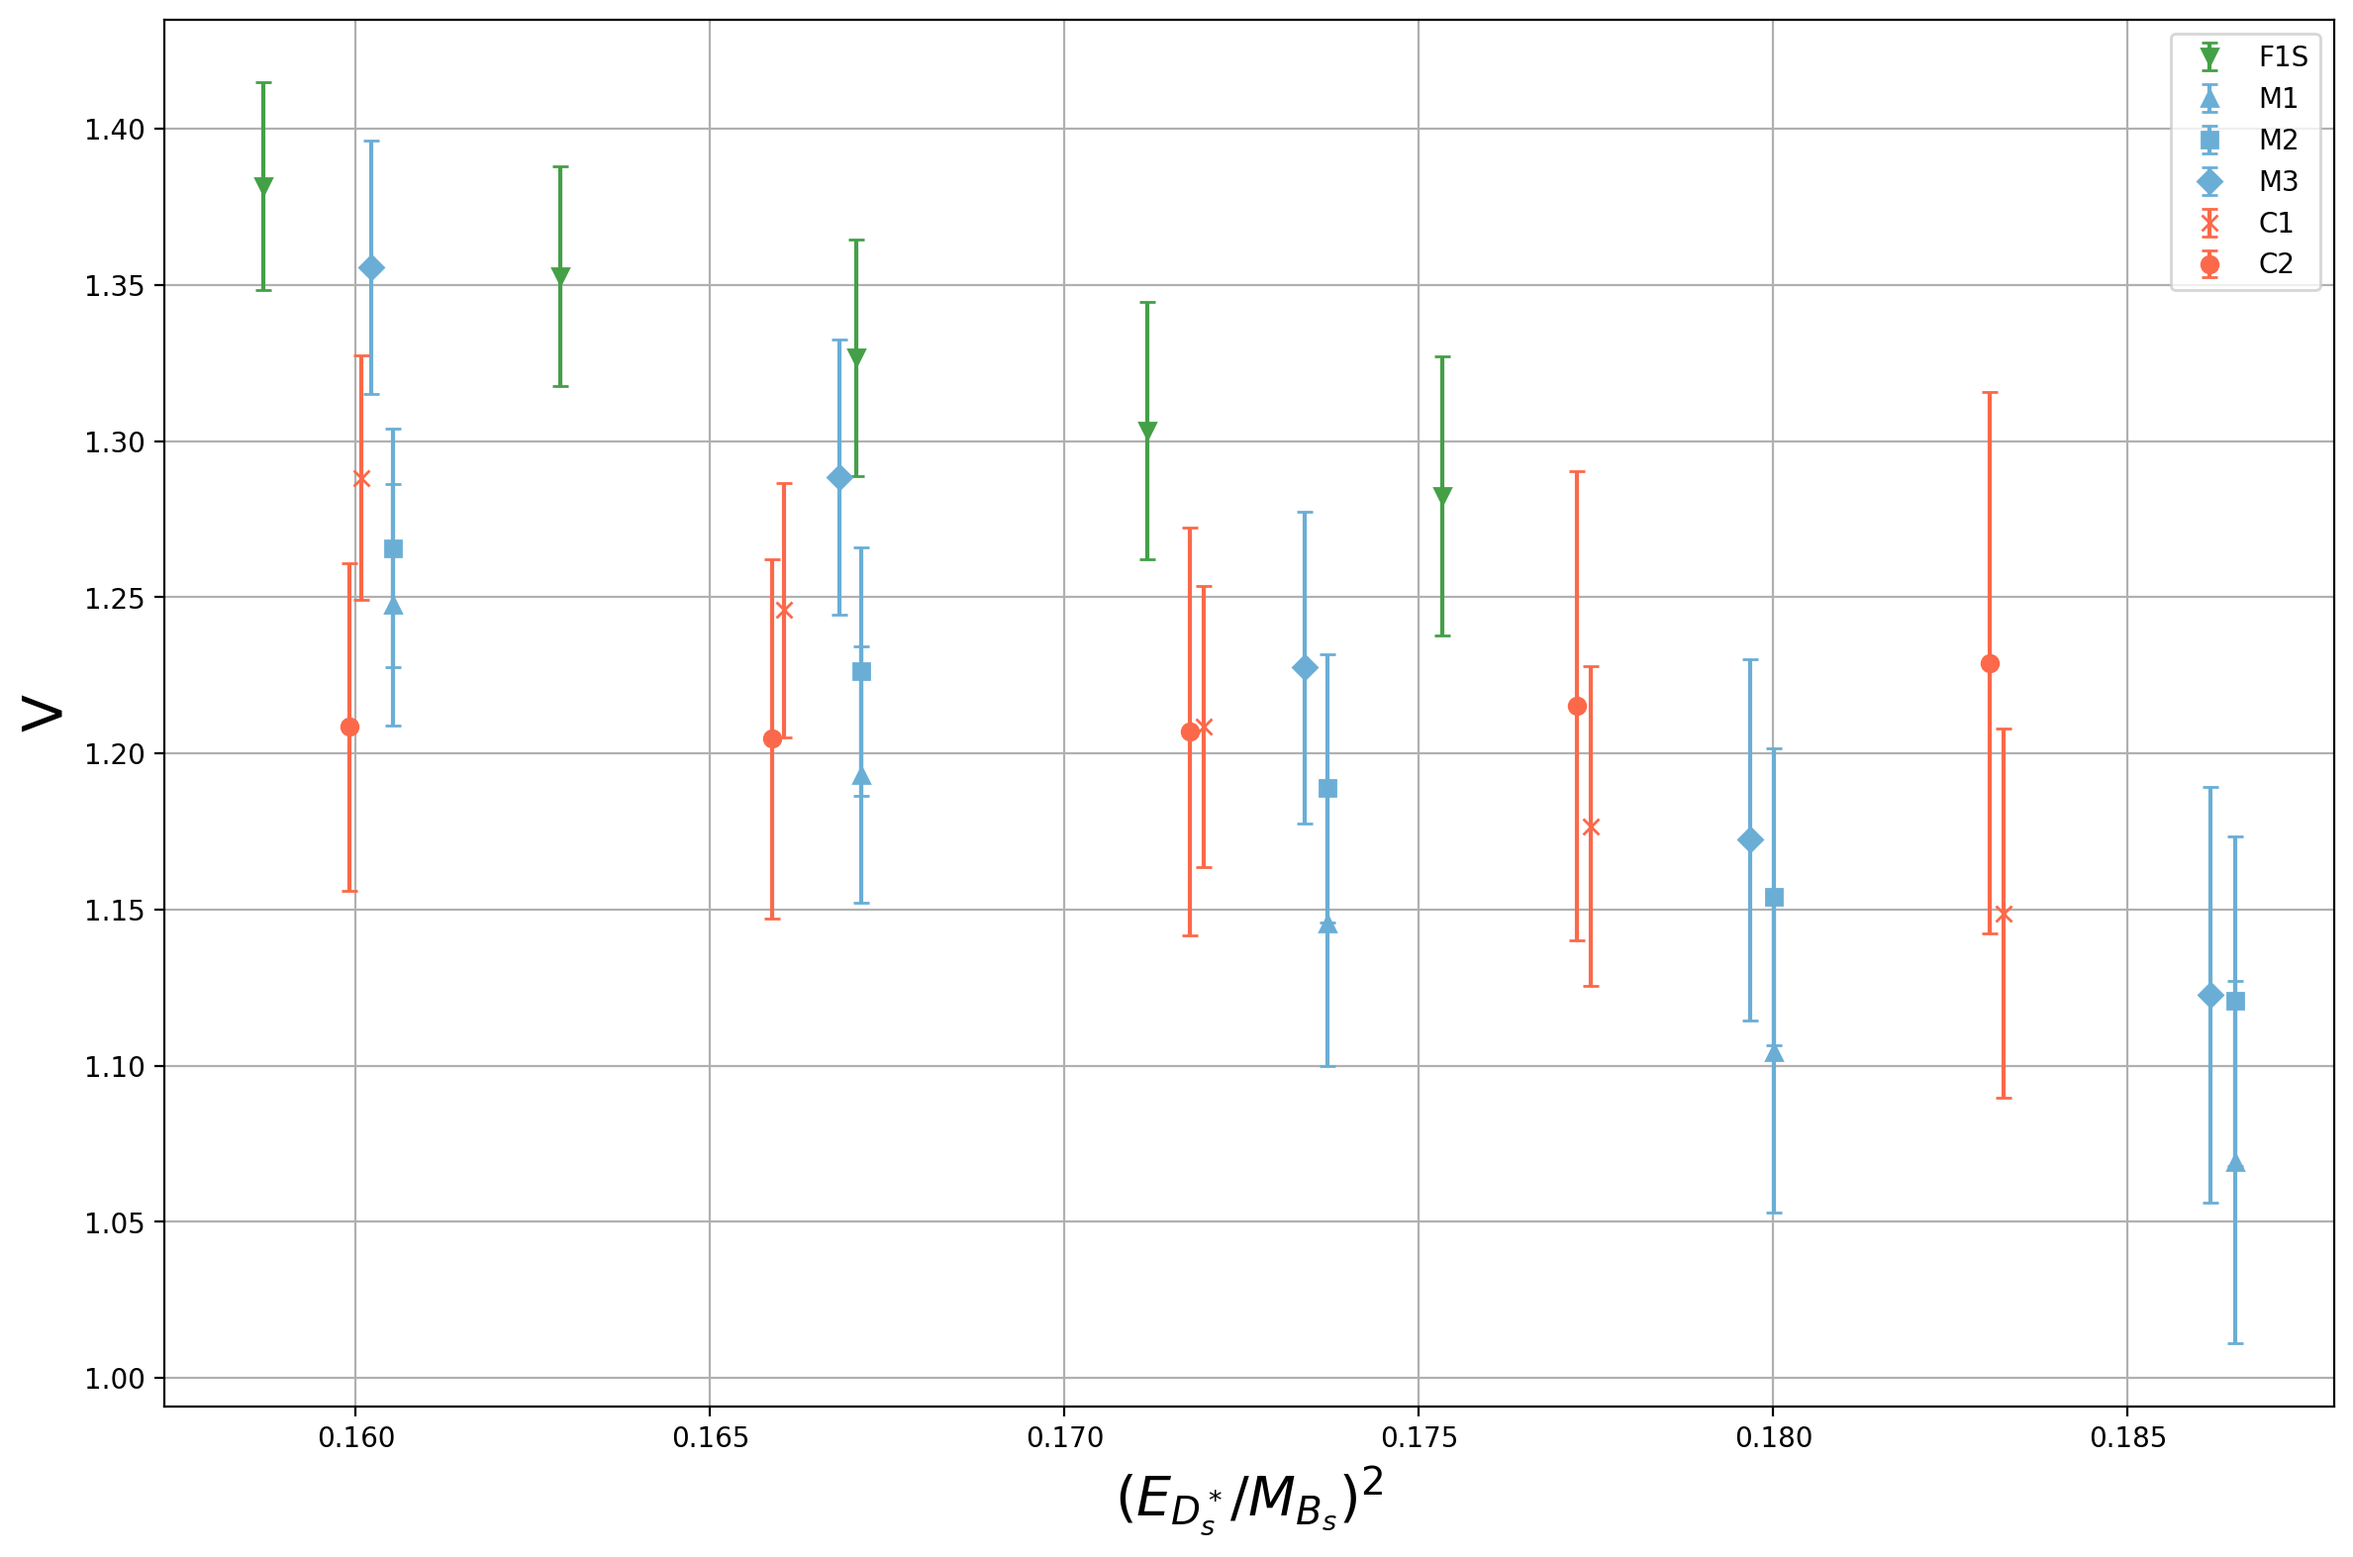
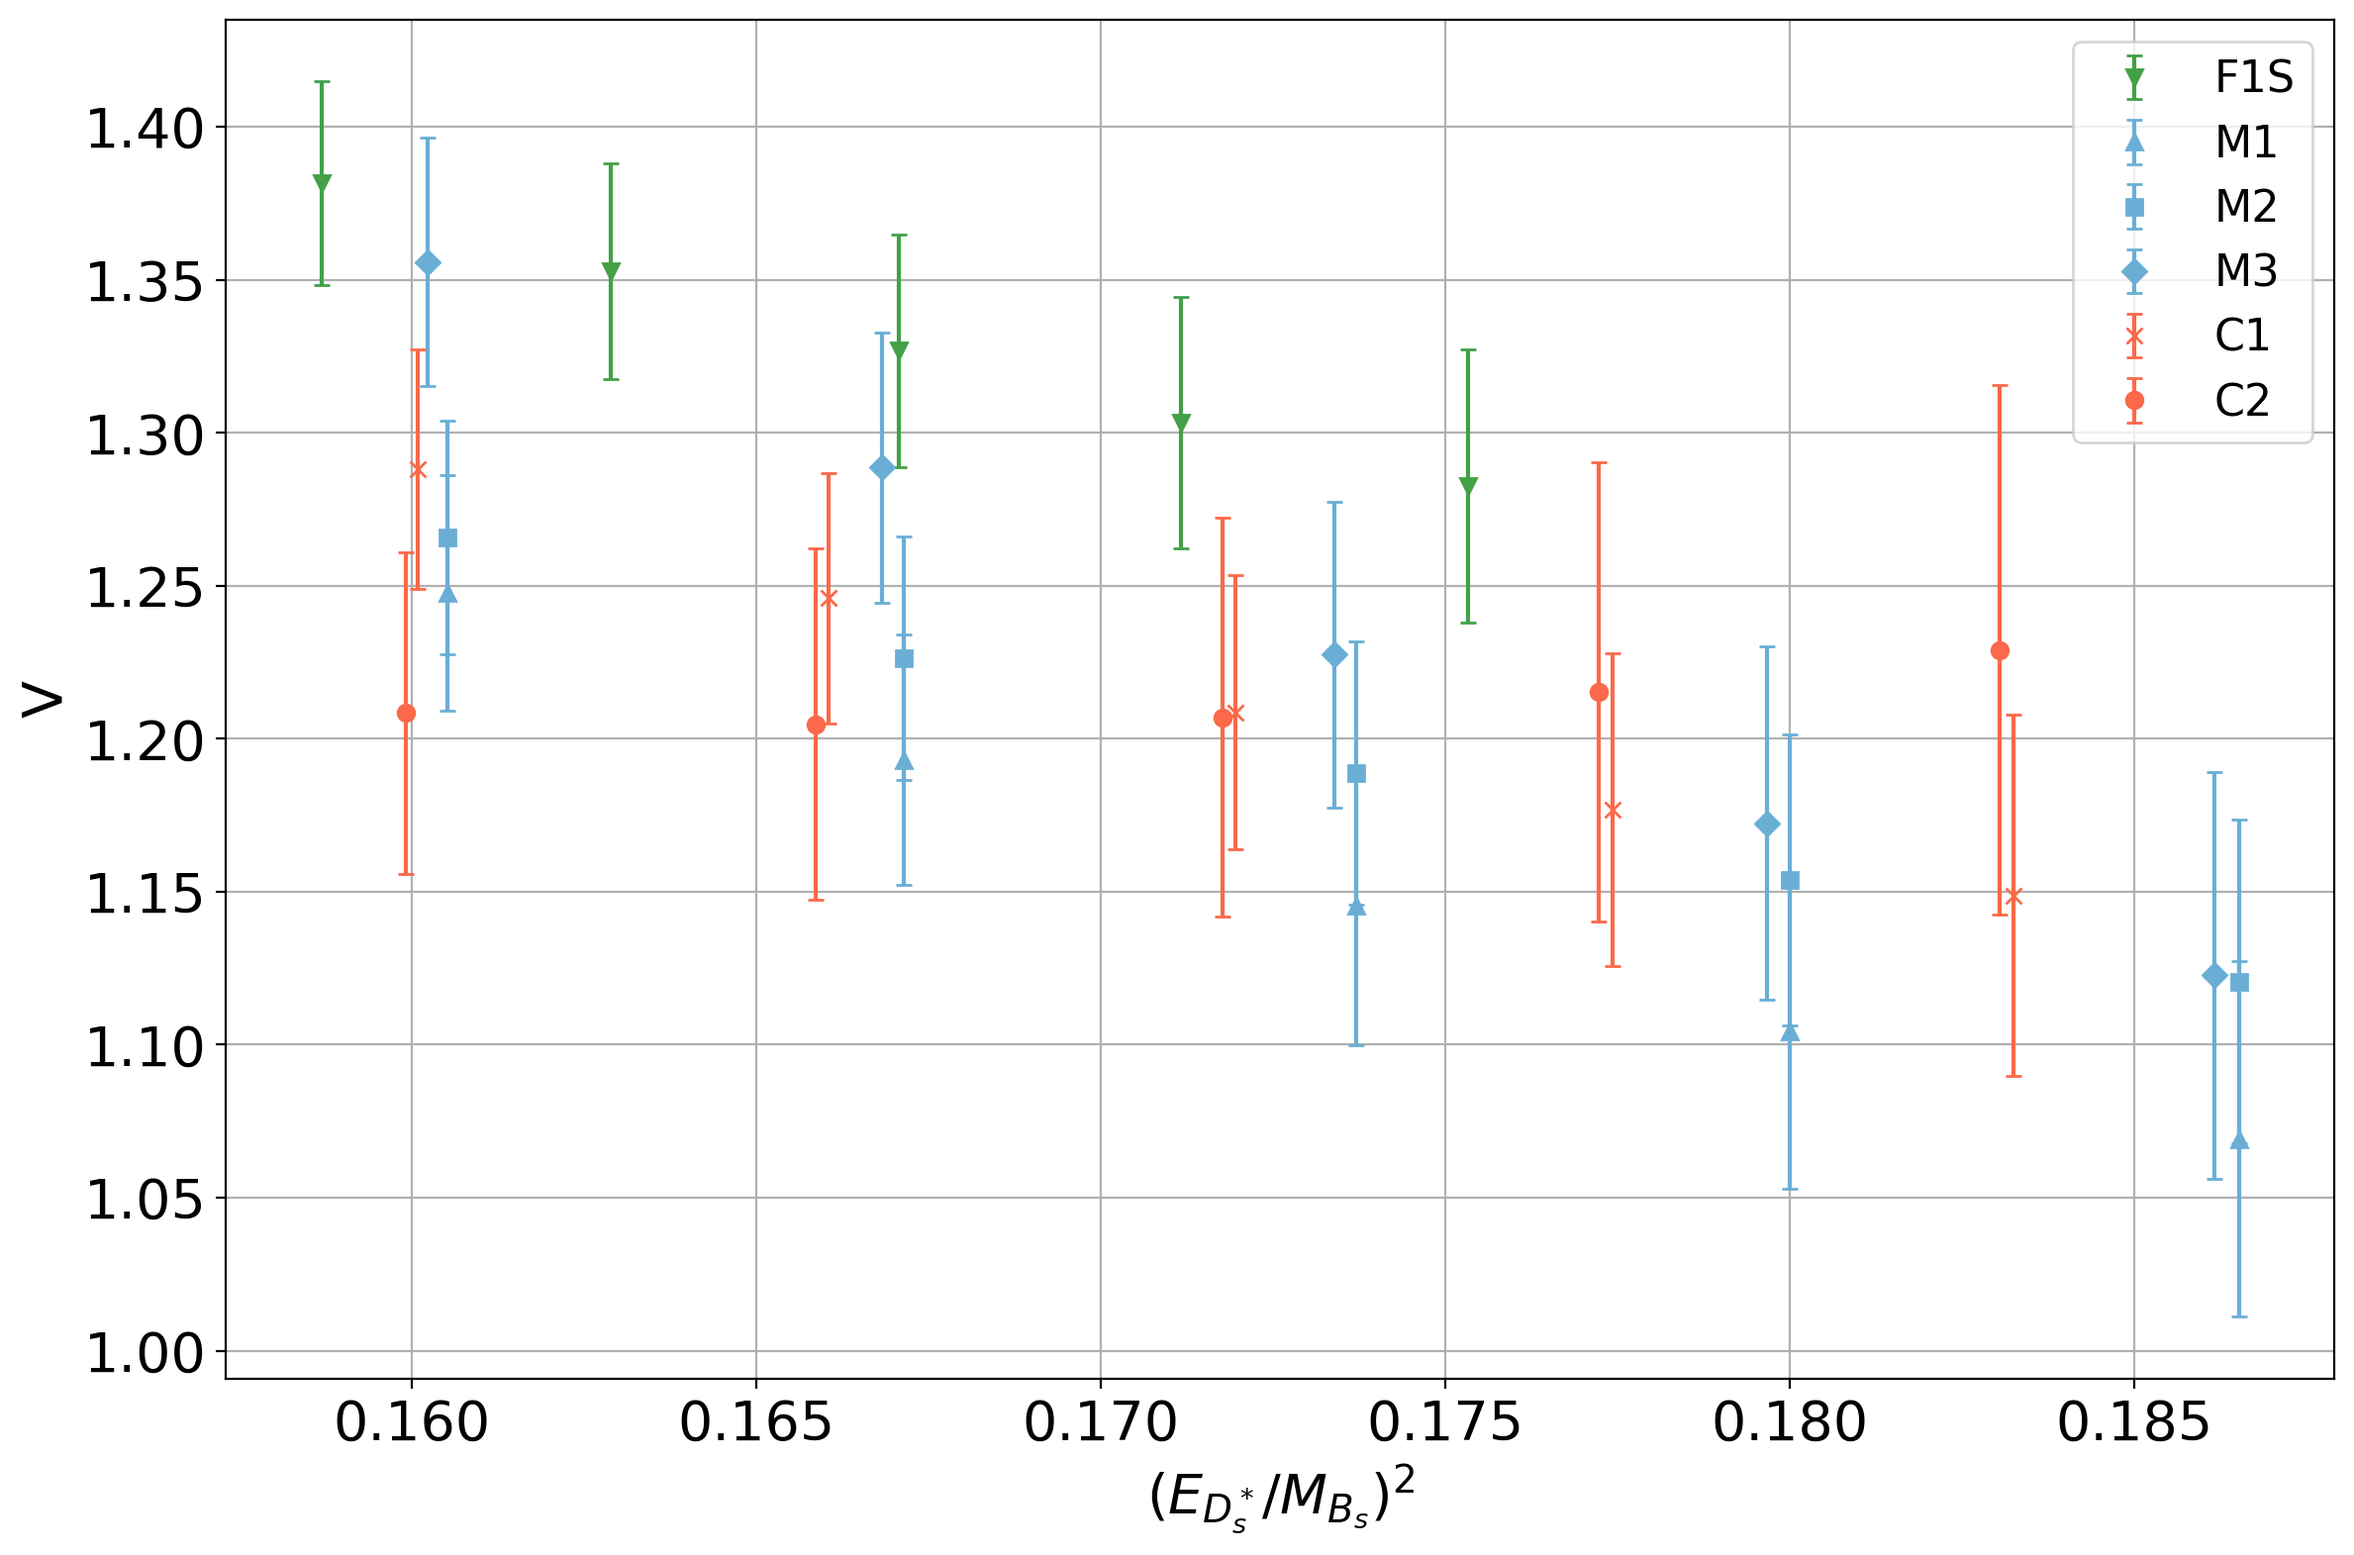
final plot

diff --git a/Code/Plot-Final-Charm.py b/Code/Plot-Final-Charm.py
@@ -247,11 +247,13 @@ def make_plot(FF, outname):
         )
         
 
-    plt.legend()
+    plt.legend(fontsize=16)
     #plt.xlabel(r"$q^2\,[\mathrm{GeV}^2]$", fontsize=20)
     plt.xlabel(r"$(E_{D_s^*}/M_{B_s})^2$", fontsize=20)
     plt.ylabel(FF, fontsize=20)
     plt.grid(True)
+    plt.xticks(fontsize=20)
+    plt.yticks(fontsize=20)
     plt.tight_layout()
     plt.savefig(outname, dpi=200, bbox_inches='tight')
 
